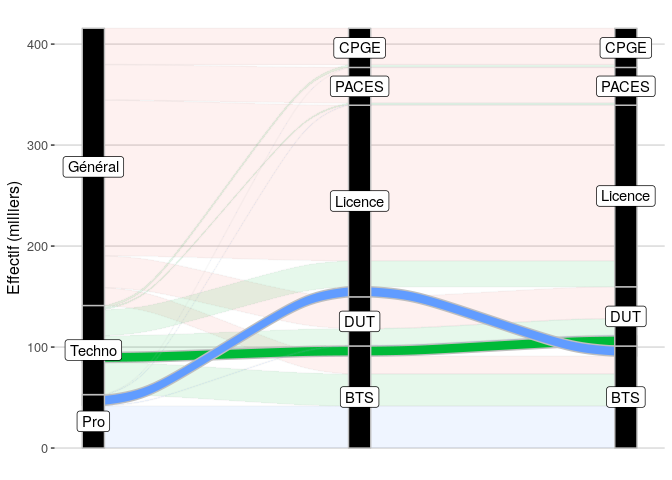
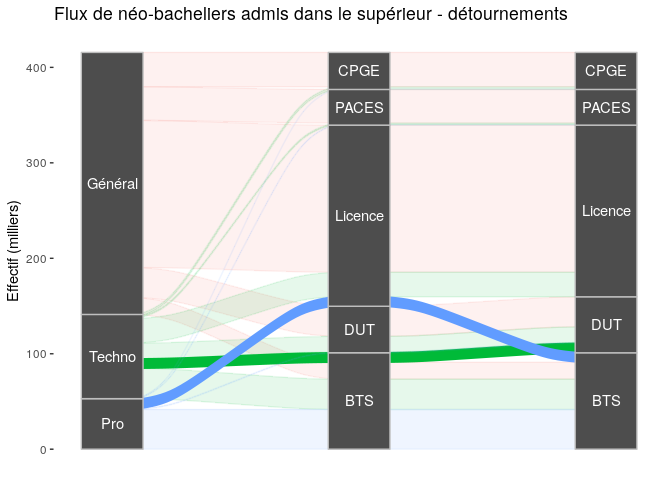
Style des allivials et ajout focus BUT

diff --git a/parcoursup/parcoursupFlux.md b/parcoursup/parcoursupFlux.md
@@ -11,6 +11,9 @@ output:
 
 
 
+
+
+
 ## Situation actuelle
 
 Les flux de néo-bacheliers admis dans le supérieur public peuvent se modéliser ainsi :
@@ -66,3 +69,30 @@ Cependant, cette manœuvre présente deux désavantages majeurs :
 - l'abaissement des exigences pédagogiques, et donc de la qualité des diplômes BTS et DUT. 
 
 Détail amusant, cela conduit environ à 50% de bac technologiques en DUT, ce qui est le quota envisagé dans l'Arrêté. 
+
+## Les quotas de DUT
+
+
+
+
+Faisons un focus sur le DUT. En regardant les mentions des néo-bacheliers admis, ses flux de recrutement en 2018 peuvent se modéliser ainsi (M : avec mention, S : sans mention) :
+
+
+![](parcoursupFlux_files/figure-html/dut.actuel-1.png)<!-- -->
+
+Faire passer le quota de bacheliers technologiques à 50% implique d'augmenter d'au moins 7000 les admis de ce public : 
+
+- cette augmentation devraient se faire essentiellement sur les bacheliers technologiques avec mention (TechnoM) auparavant en BTS ;
+- pour leur faire de la place, avec les classements actuels, l'éviction se fera sur les bacheliers généraux sans mention (GénéralS) ;
+- ces évincés se répartiraient entre CPGE, Licences et PACES.
+
+
+![](parcoursupFlux_files/figure-html/dut.flux-1.png)<!-- -->
+
+Au final, on obtient donc ce recrutement en DUT :
+
+![](parcoursupFlux_files/figure-html/dut.futur-1.png)<!-- -->
+
+On observe ainsi un abaissement de la mixité des publics, désormais polarisés entre bachleliers généraux avec mention et bacheliers technologiques avec mention.
+
+
